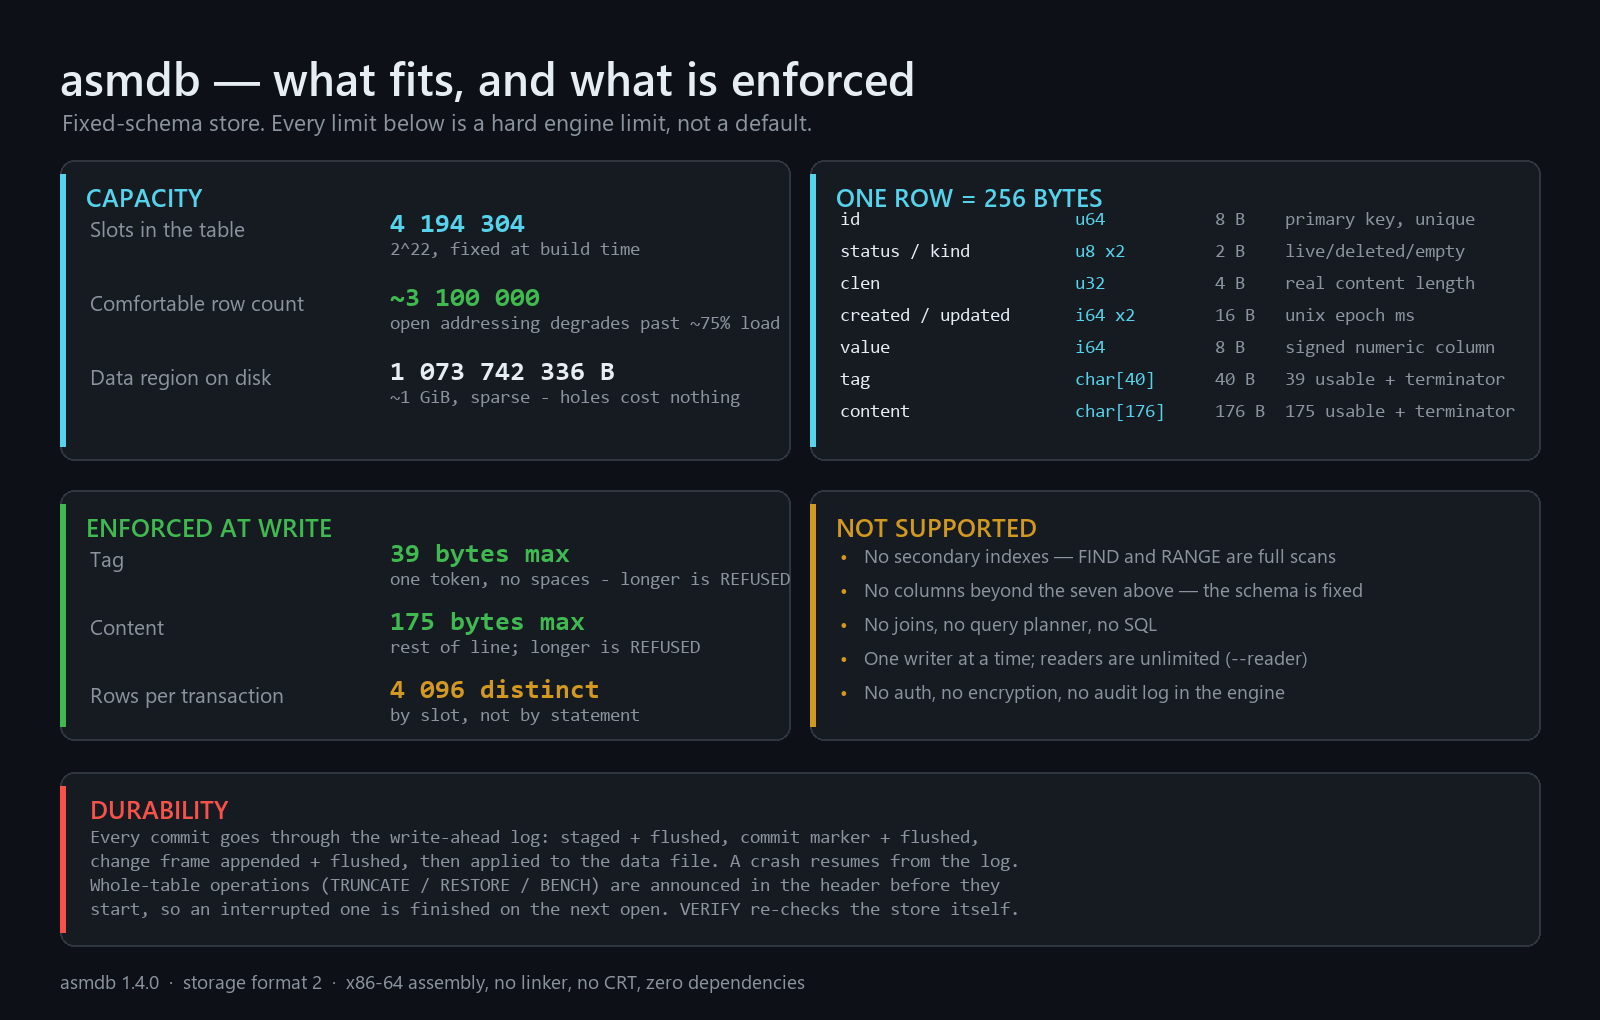
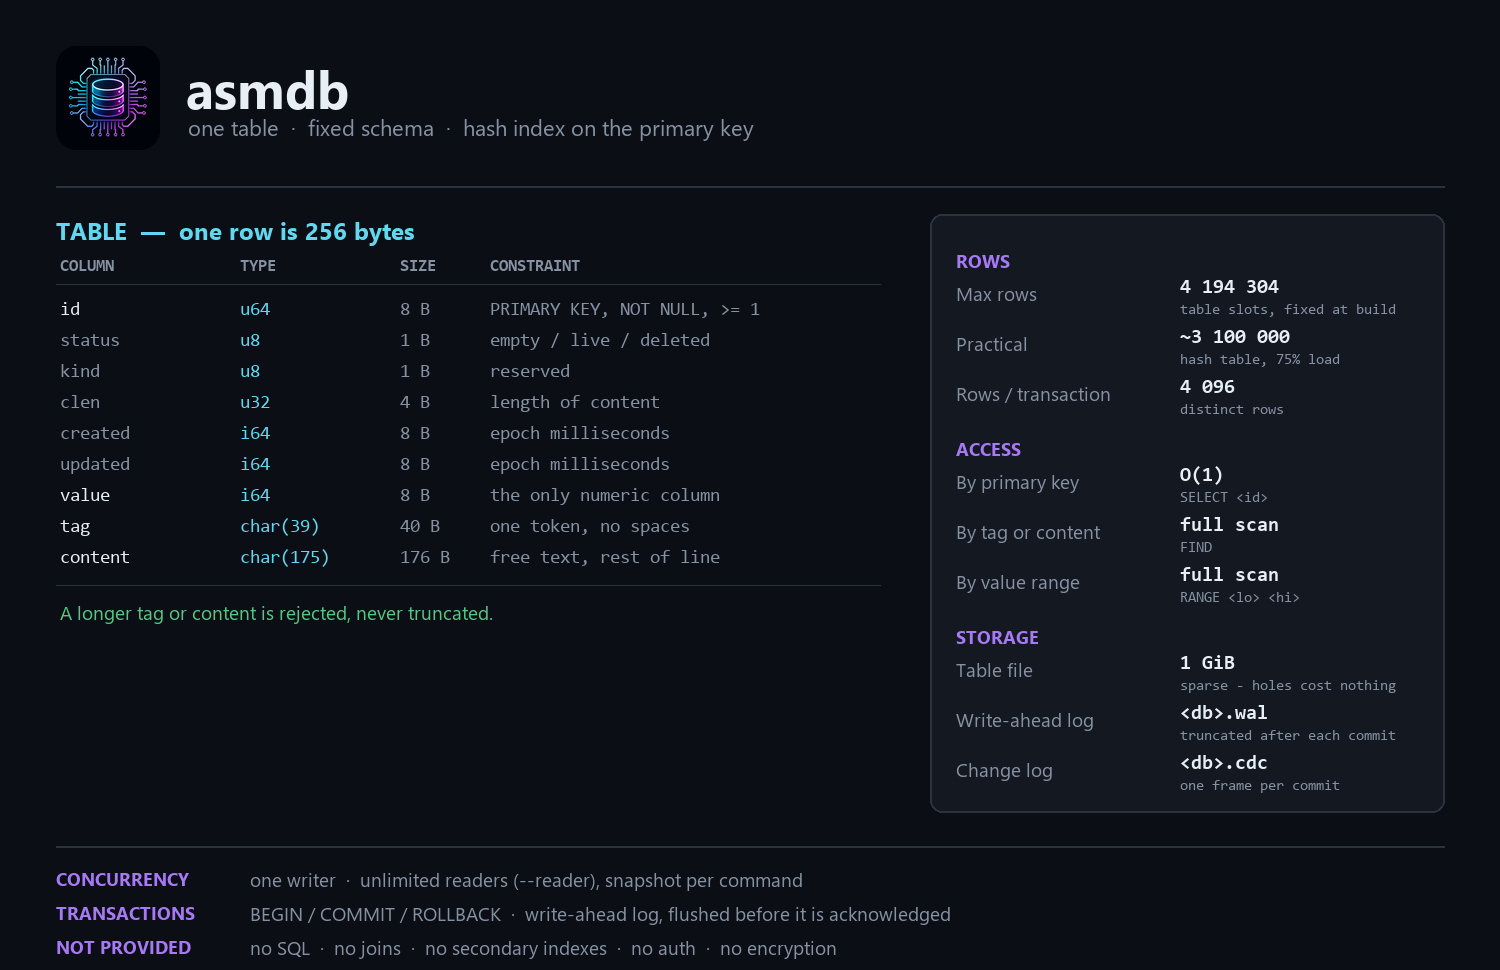
1.5.0: change-log retention, and a command line that survives a space
CDCTRIM <seq> gives <db>.cdc a retention policy. The log was append-only with no
way to reclaim anything: it grew for the life of the database and was re-read
and re-checksummed in full at every open, so start-up eventually became a
function of history rather than of data.

It is not a truncation. A replacement log is built beside the old one carrying
the same lineage and a base_seq of <seq>, so a reader still sees a dense,
verifiable sequence from <seq>+1 - the rule that already applied to a log
recreated after an operator deleted it. The old file is replaced only once the
new one is complete and flushed. A watermark below the base or above the last
published commit is refused rather than guessed at.

On Linux the engine rebuilds a single command-line string from argv so one
parser serves both platforms, and it joined arguments with spaces - the shell
had already removed the quotes, so a quoted path with a space opened a database
named after its first word. Arguments containing whitespace are now re-quoted on
the way in.

Documentation: the capacity card is rebuilt around the project logo and speaks
database - columns, types, sizes, constraints, access paths. The README's
opening example is now a rendering of the engine's actual output instead of a
hand-written block that had drifted (it still claimed FIND printed "1 match"),
and HELP is shown as a real terminal capture.

Also fixes a test that reused the database name a corruption test deliberately
[…]

diff --git a/README.md b/README.md
@@ -43,18 +43,9 @@ a short `tag`, and a free-text `content` field — suits many workloads;
 **durable long-term memory for an AI agent is one example use case**, not the
 only one.
 
-```text
-asmdb> INSERT 1001 5 project asmdb is a database engine written in x86-64 assembly
-[ OK ] 1 row inserted
-asmdb> SELECT *
-+----------+------------------+------------+------------------------------------------+
-| id       | tag              | value      | content                                  |
-+----------+------------------+------------+------------------------------------------+
-| 1001     | project          | 5          | asmdb is a database engine written in ~  |
-+----------+------------------+------------+------------------------------------------+
-asmdb> FIND assembly
-  1 match
-```
+<p align="center">
+  <img src="docs/assets/asmdb-quick.png" alt="asmdb REPL: INSERT, SELECT * rendering a table, FIND matching on content" width="88%">
+</p>
 
 Because the engine does one thing — fixed-shape rows in a single hash-indexed
 table — it does that one thing at speeds a general-purpose SQL database cannot
@@ -202,7 +193,14 @@ Windows↔Linux syscall mapping.
 ## Commands
 
 asmdb speaks a small, line-oriented grammar — full CRUD over a fixed-schema table,
-real transactions, a catalog, and backup/restore. The essentials:
+real transactions, a catalog, and backup/restore. `HELP` prints the whole
+reference in the REPL:
+
+<p align="center">
+  <img src="docs/assets/asmdb-help.png" alt="asmdb REPL: startup banner and the built-in HELP command reference" width="85%">
+</p>
+
+The essentials:
 
 | Command | Description |
 |---|---|
@@ -723,7 +721,7 @@ Two documents, deliberately kept in separate lanes:
 | **Startup & memory** | ✅ the store is **mapped copy-on-write**: opening a database is ~80 ms whatever its size (was ~600 ms), and a 1 M-row database peaks at **~5 MB** of RAM (was ~1 029 MB) |
 | **Portability** | ✅ Windows PE64 + Linux ELF64 from one source, behind a thin `os_*` layer |
 | **Integration** | ✅ MCP server (generic CRUD tools) + Python / C# / C stdio clients |
-| **Tests** | ✅ 143 checks on Windows and the same battery on Linux, plus 24 for the MCP server — fault-injected I/O failures, crash windows, format fuzzing |
+| **Tests** | ✅ 151 checks on Windows and the same battery on Linux, plus 24 for the MCP server — fault-injected I/O failures, crash windows, format fuzzing |
 | **Next up** | 🔜 **persisted status directory** (see below), then incremental checkpoint, secondary indexes, SIMD scans |
 
 **The roadmap is driven by measurement, not intuition.** The last milestone came
@@ -753,7 +751,7 @@ touching 1 GiB. Details in [§12 Roadmap](docs/ENGINE.md#12-roadmap).
 ## Changelog
 
 <details>
-<summary><b>Release history</b> — 1.4.0 · 1.3.1 · 1.3.0 · … (click to expand)</summary>
+<summary><b>Release history</b> — 1.5.0 · 1.4.0 · 1.3.1 · … (click to expand)</summary>
 
 Versions follow `MAJOR.MINOR.PATCH`. **`MAJOR` changes only when the on-disk
 format does**, so a major bump is the signal that `--upgrade` has work to do.
@@ -772,6 +770,39 @@ database. To move a database written by an incompatible build, see
 [Upgrading a database](#upgrading-a-database).
 
 Newest first — click a version to expand it.
+
+<details>
+<summary><b>1.5.0</b> — change-log retention, and a command line that survives a space</summary>
+
+**`CDCTRIM <seq>` gives the change log a retention policy.** `<db>.cdc` was
+append-only with no way to reclaim anything: it grew for the life of the
+database and was re-read and re-checksummed in full at every open, so start-up
+eventually became a function of history rather than of data. Once a consumer has
+acknowledged a watermark, `CDCTRIM` drops everything up to it.
+
+It is not a truncation. A replacement log is built beside the old one carrying
+the same lineage and a `base_seq` of `<seq>`, so a reader still sees a dense,
+verifiable sequence starting at `<seq> + 1` — the same rule that already applied
+to a log recreated after an operator deleted it. The old file is replaced only
+once the new one is complete and flushed, so a crash leaves either the whole old
+log or the whole new one. A watermark below the log's base or above the last
+published commit is refused rather than guessed at.
+
+**A Linux argument containing a space no longer splits in two.** The engine
+rebuilds a single command-line string from `argv` so that one parser serves both
+platforms, and it joined the arguments with spaces — the shell had already
+removed the quotes, so `asmdb "my db"` opened a database called `my`. Arguments
+containing whitespace are now re-quoted on the way in.
+
+Documentation: the capacity card is rebuilt around the project logo and speaks
+database — columns, types, sizes, constraints, access paths — and the README's
+opening example is now a rendering of the engine's *actual* output rather than a
+hand-written block that had drifted (it still claimed `FIND` printed
+`1 match`). `HELP` is shown as a real terminal capture.
+
+Tests: 143 → 151 checks on Windows, mirrored on Linux.
+
+</details>
 
 <details>
 <summary><b>1.4.0</b> — the write-ahead log names its database, whole-table operations survive a crash, and a snapshot stops costing a gigabyte</summary>

diff --git a/docs/COMMANDS.md b/docs/COMMANDS.md
@@ -92,6 +92,7 @@ see different states, but neither will ever see half of one.
 | [`BENCH <n>`](#bench) | insert *n* synthetic rows and report engine rows/sec || [`BACKUP <file>`](#backup) | snapshot this database to `<file>` |
 | [`RESTORE <file>`](#restore) | reload this database from a snapshot |
 | [`VERIFY`](#verify) | full logical integrity scan of the store |
+| [`CDCTRIM <seq>`](#cdctrim) | drop change frames up to and including `<seq>` |
 | [`FORMAT TABLE\|TSV`](#format) | human table (default) or machine-readable rows |
 | [`PAGE <limit> <offset>`](#page) | bound what the listing commands return |
 | [`HELP`](#help) | in-app command reference |
@@ -593,6 +594,36 @@ asmdb> VERIFY
 ```
 
 `VERIFY` is read-only. It never repairs anything.
+
+---
+
+### `CDCTRIM`
+
+```
+CDCTRIM <seq>
+```
+
+Drop change frames up to and including `<seq>`. Use it once a consumer has
+acknowledged that watermark out-of-band: `<db>.cdc` is append-only and is
+re-read in full at every open, so without a retention policy start-up time
+eventually becomes a function of history rather than of data.
+
+This is **not** a truncation. A replacement log is built beside the old one with
+the same lineage and a `base_seq` of `<seq>`, so a reader still sees a dense,
+verifiable sequence starting at `<seq> + 1`. The old file is replaced only once
+the new one is complete and flushed, so a crash leaves either the whole old log
+or the whole new one. Refused inside a transaction.
+
+`<seq>` must be at least the log's current base and at most the last published
+commit; anything else is refused rather than guessed at.
+
+```text
+asmdb> CDCTRIM 4210
+[ OK ] change log trimmed up to sequence 4210
+```
+
+A consumer that is behind that watermark must re-bootstrap from a `BACKUP`, as
+described in [docs/CDC.md](CDC.md).
 
 ---
 
